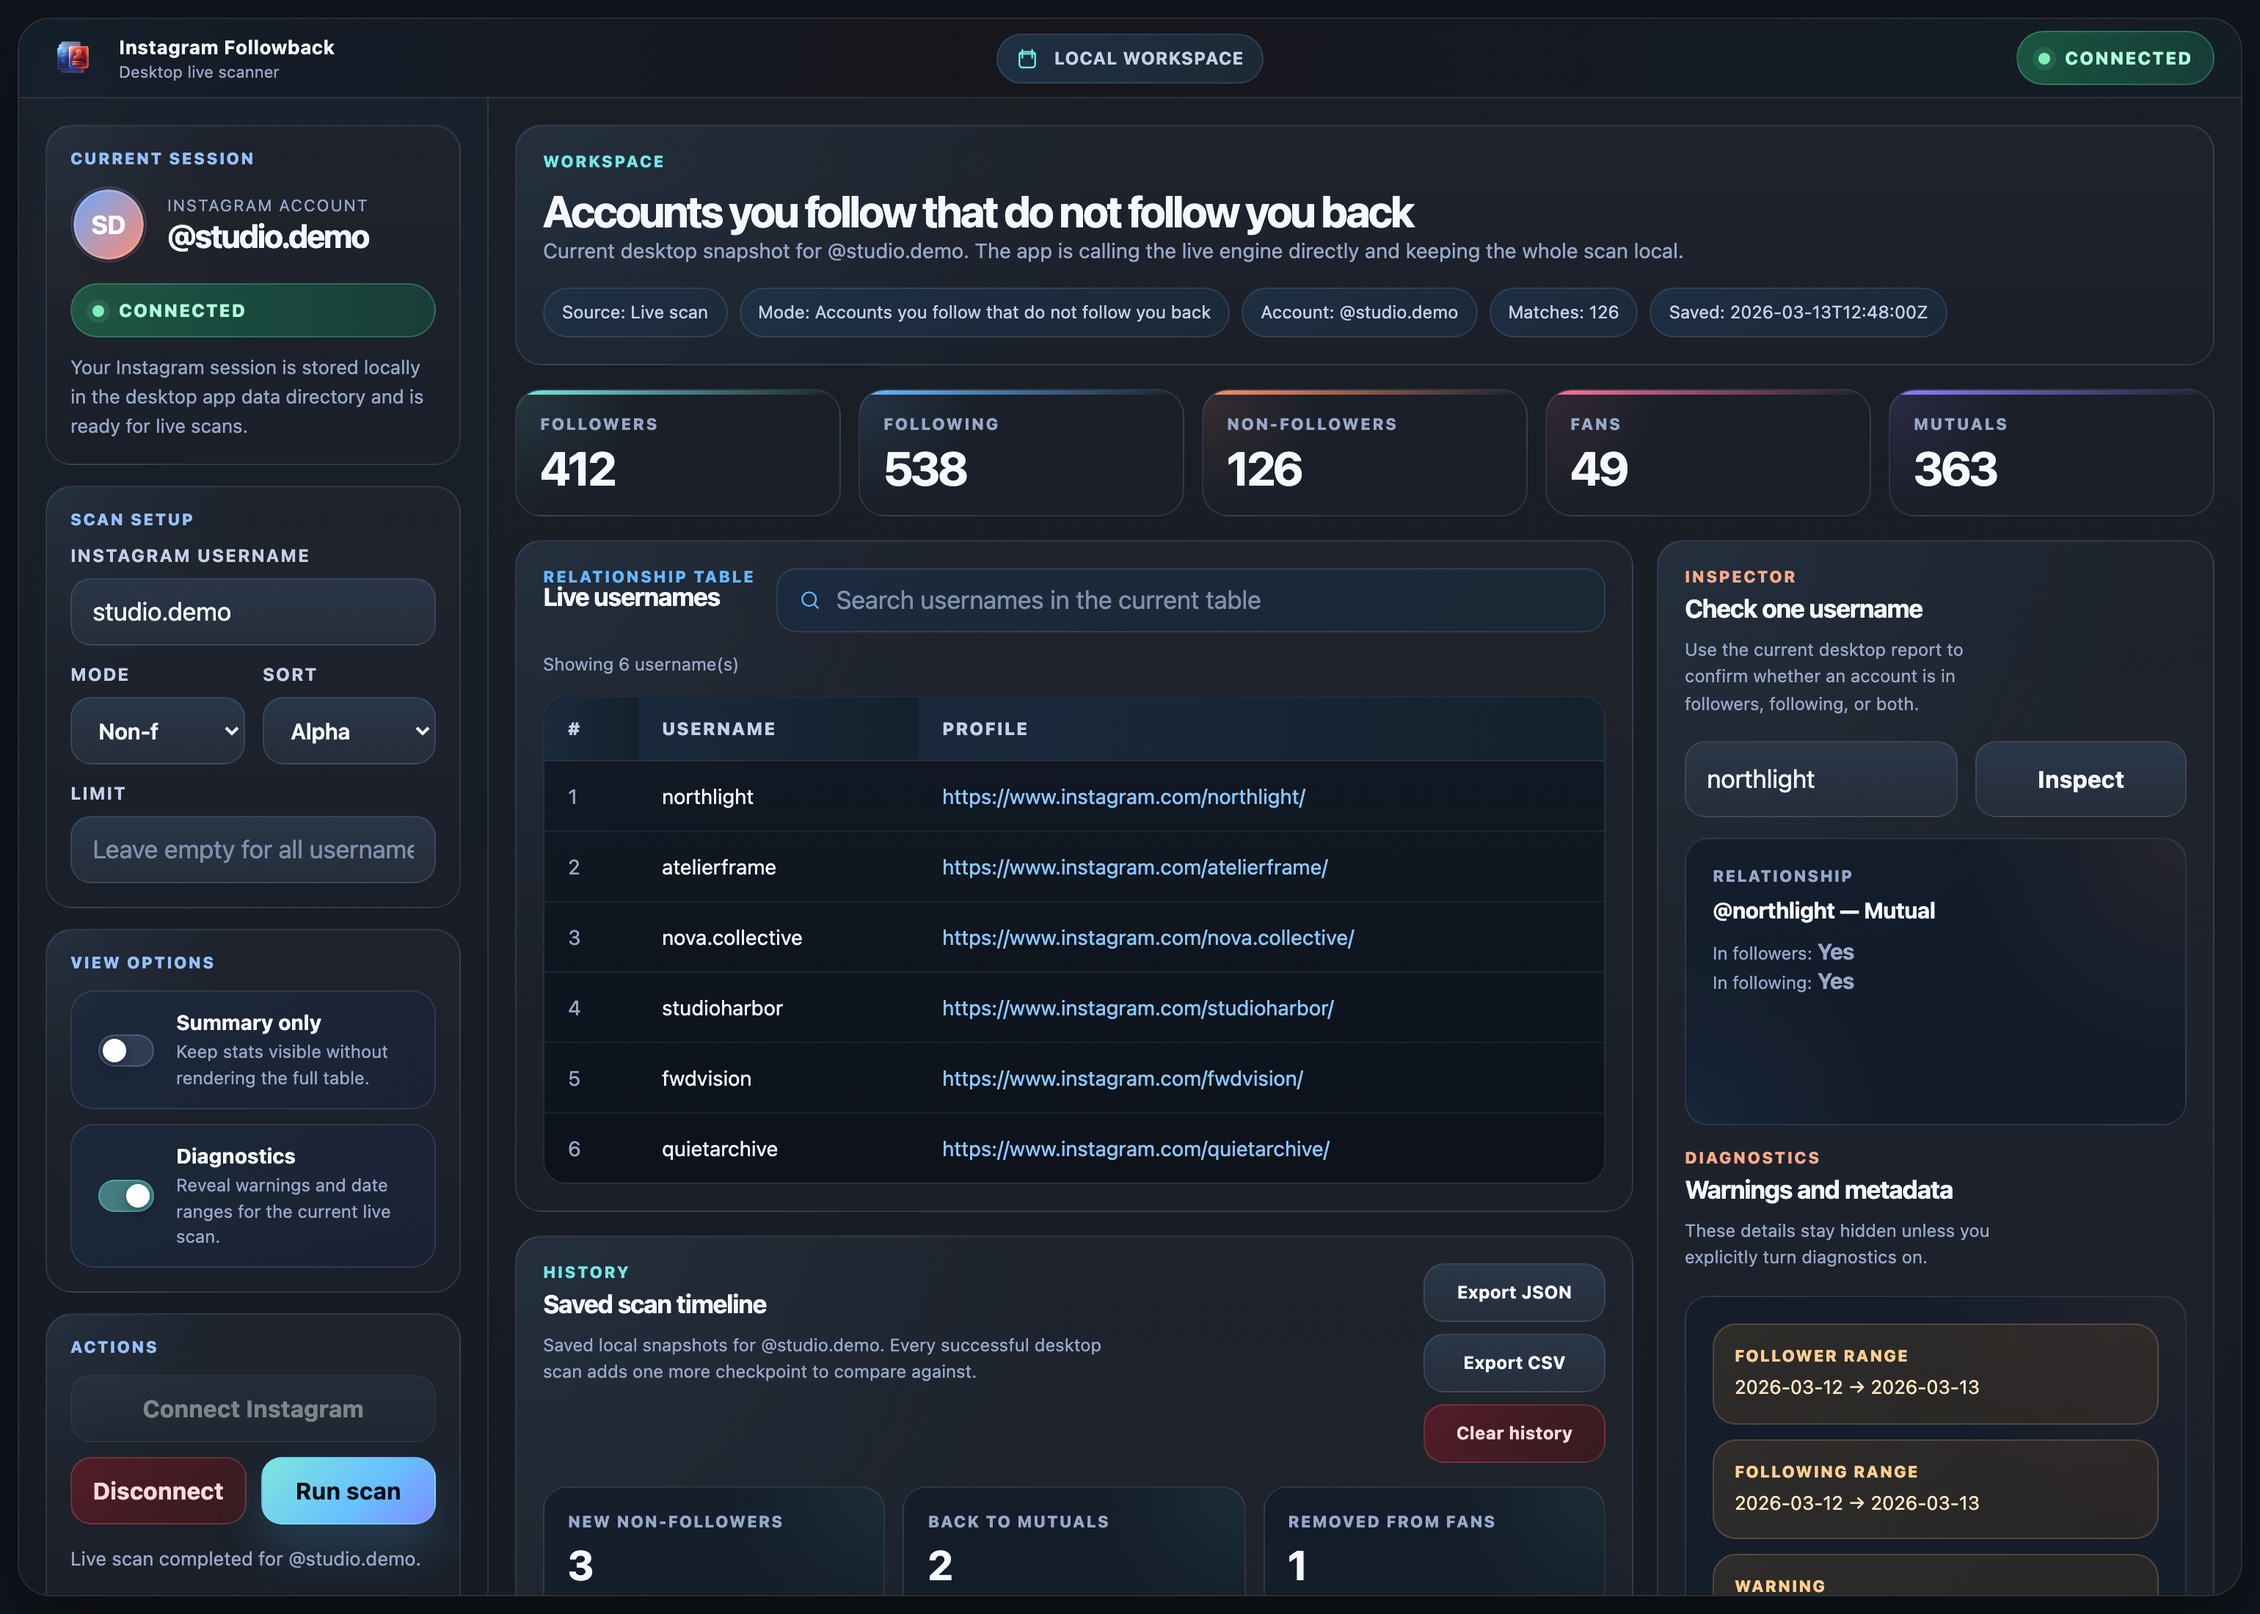
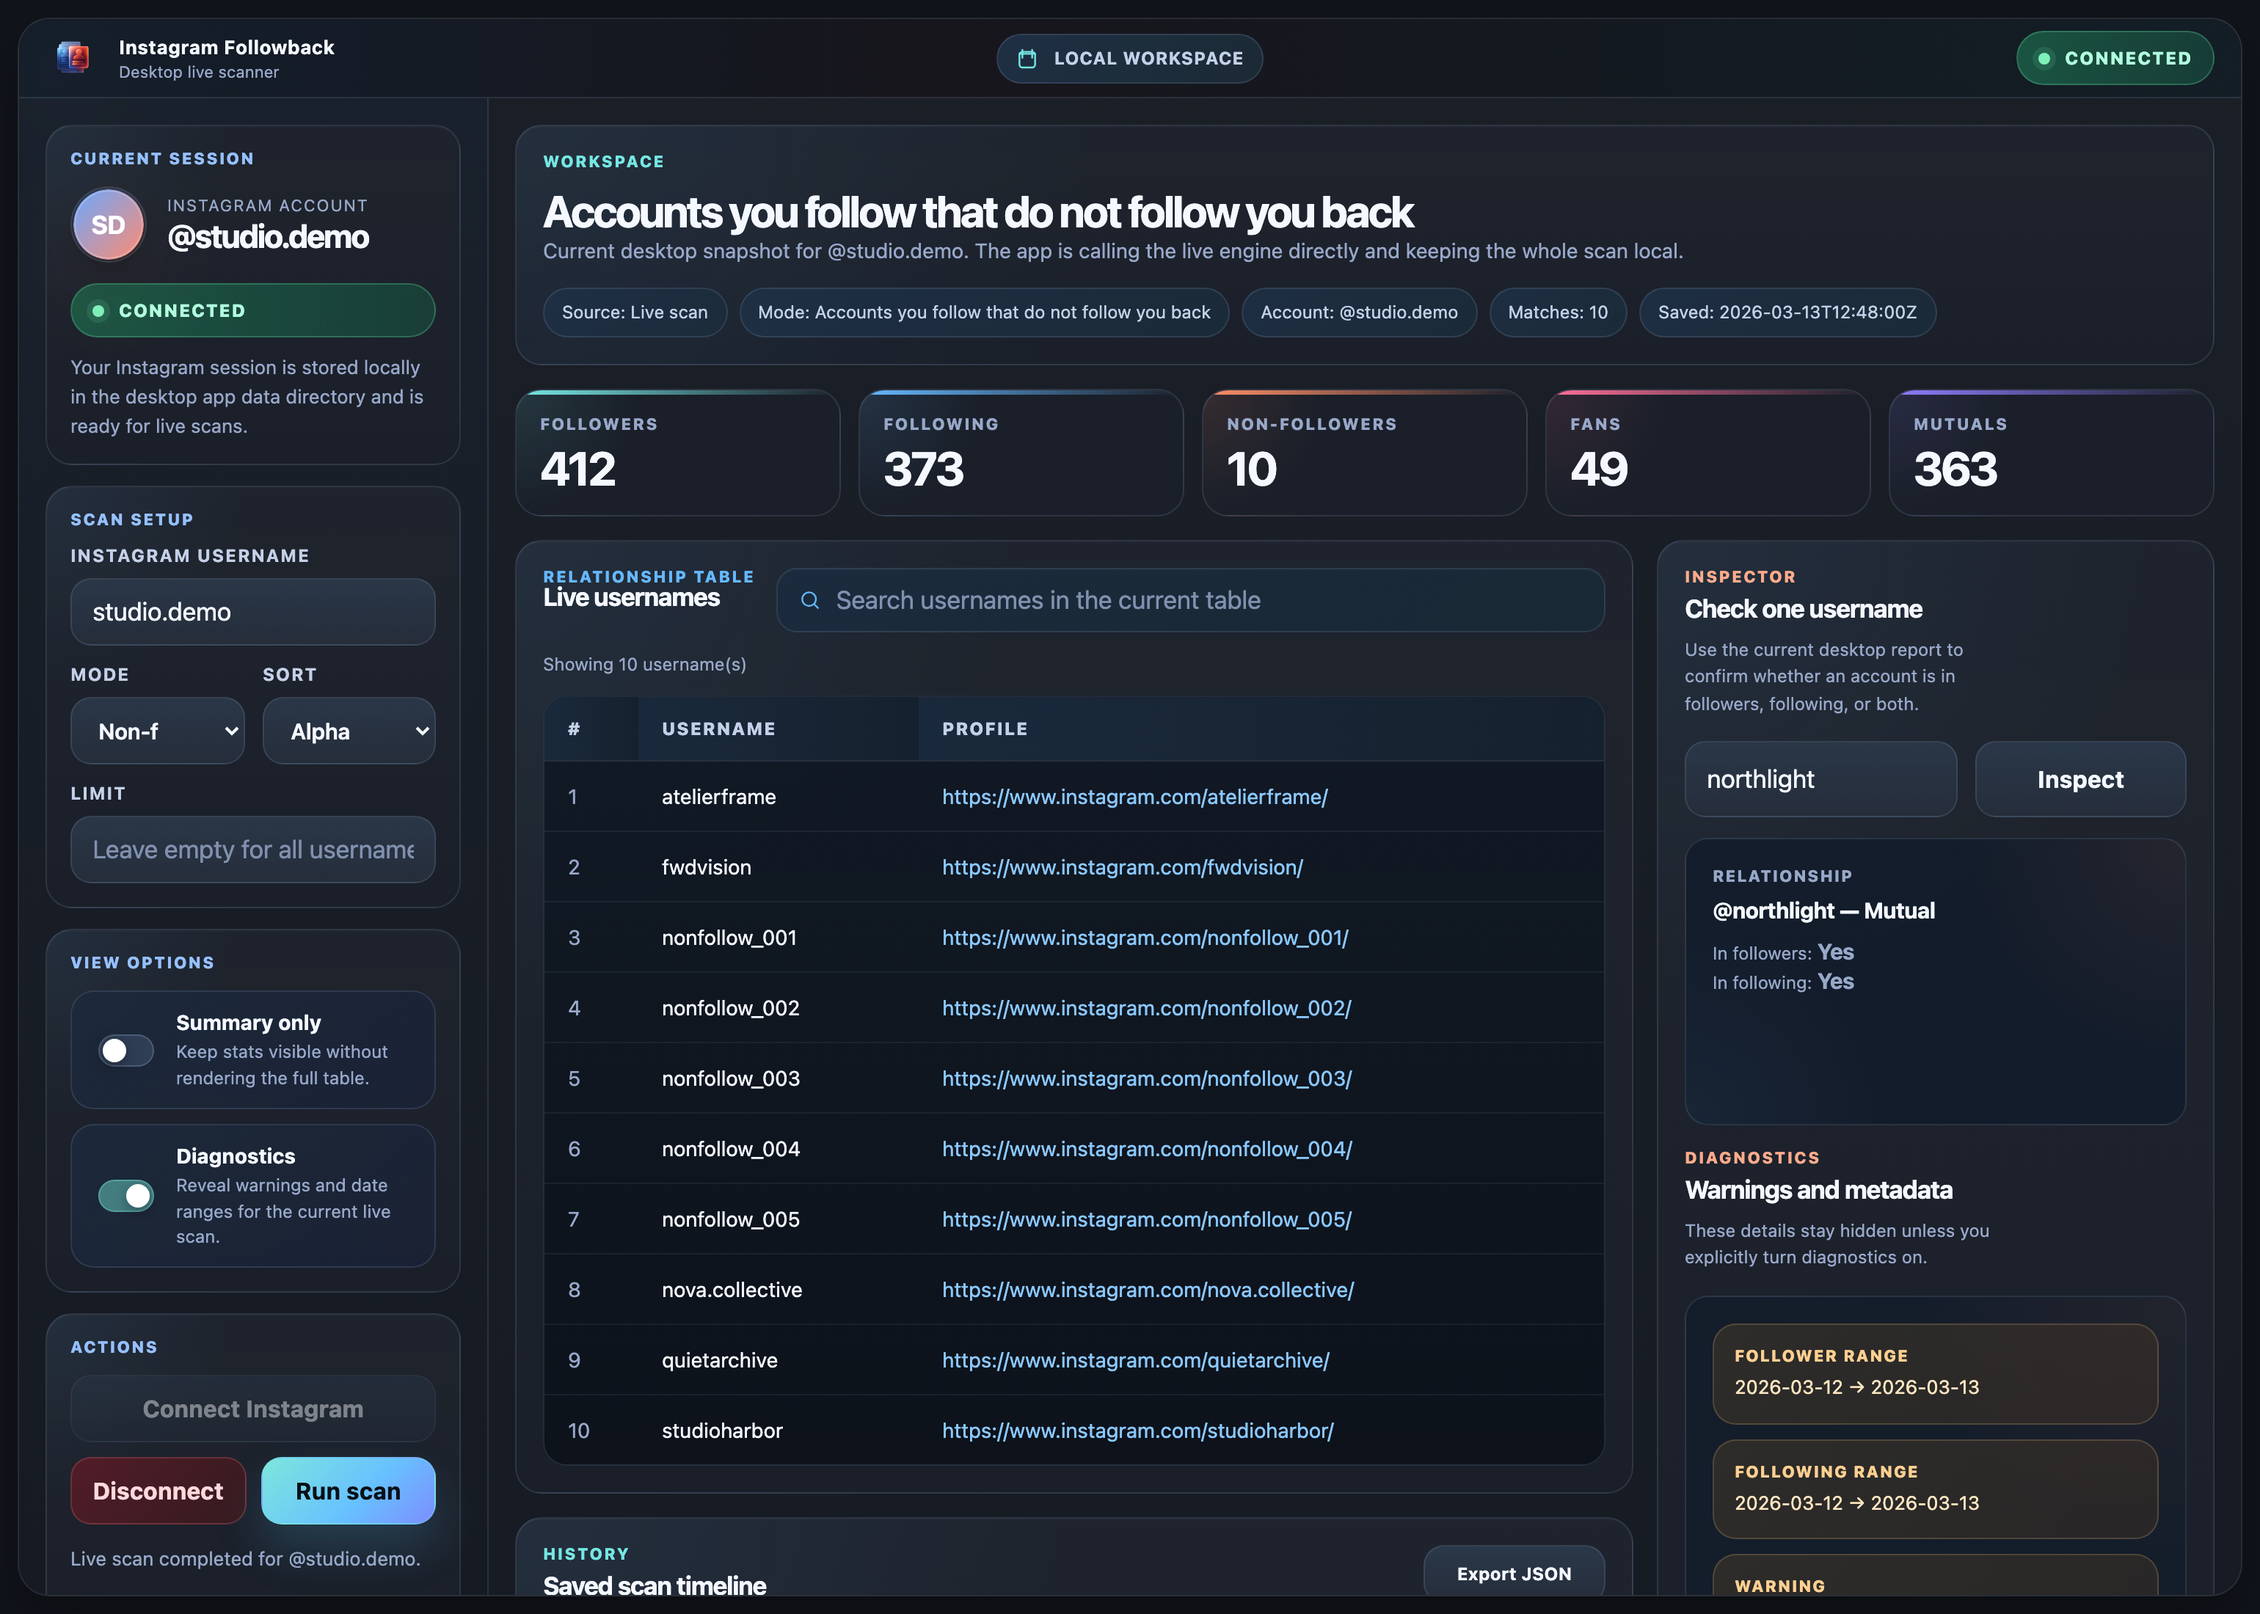
Update README screenshot set

diff --git a/scripts/capture_desktop_screenshots.py b/scripts/capture_desktop_screenshots.py
@@ -43,12 +43,16 @@ def avatar_data_url(initials: str, *, start: str, end: str) -> str:
 
 def build_report() -> dict[str, object]:
     entries = [
-        {"username": "northlight", "profile_url": "https://www.instagram.com/northlight/"},
         {"username": "atelierframe", "profile_url": "https://www.instagram.com/atelierframe/"},
-        {"username": "nova.collective", "profile_url": "https://www.instagram.com/nova.collective/"},
-        {"username": "studioharbor", "profile_url": "https://www.instagram.com/studioharbor/"},
         {"username": "fwdvision", "profile_url": "https://www.instagram.com/fwdvision/"},
+        {"username": "nonfollow_001", "profile_url": "https://www.instagram.com/nonfollow_001/"},
+        {"username": "nonfollow_002", "profile_url": "https://www.instagram.com/nonfollow_002/"},
+        {"username": "nonfollow_003", "profile_url": "https://www.instagram.com/nonfollow_003/"},
+        {"username": "nonfollow_004", "profile_url": "https://www.instagram.com/nonfollow_004/"},
+        {"username": "nonfollow_005", "profile_url": "https://www.instagram.com/nonfollow_005/"},
+        {"username": "nova.collective", "profile_url": "https://www.instagram.com/nova.collective/"},
         {"username": "quietarchive", "profile_url": "https://www.instagram.com/quietarchive/"},
+        {"username": "studioharbor", "profile_url": "https://www.instagram.com/studioharbor/"},
     ]
     return {
         "scan_username": "studio.demo",
@@ -61,8 +65,8 @@ def build_report() -> dict[str, object]:
         "stats_only": False,
         "stats": {
             "followers": 412,
-            "following": 538,
-            "nonfollowers": 126,
+            "following": 373,
+            "nonfollowers": 10,
             "fans": 49,
             "mutuals": 363,
         },
@@ -81,19 +85,15 @@ def build_report() -> dict[str, object]:
             "open.room",
             "studio.demo",
         ],
-        "following_usernames": [
-            "atelierframe",
+        "following_usernames": [entry["username"] for entry in entries] + [
             "northlight",
-            "nova.collective",
-            "quietarchive",
+            "open.room",
             "studio.demo",
-            "studioharbor",
-            "fwdvision",
         ],
         "entries": entries,
         "all_entries": entries,
         "shown_matches": len(entries),
-        "total_matches": 126,
+        "total_matches": len(entries),
         "used_files": {
             "followers": ["live-instagram://studio.demo/followers"],
             "following": ["live-instagram://studio.demo/following"],
@@ -107,9 +107,9 @@ def build_history() -> dict[str, object]:
         "latest_snapshot_id": "snap-20260313-124800",
         "previous_snapshot_id": "snap-20260312-184500",
         "changes": {
-            "new_nonfollowers": ["atelierframe", "quietarchive", "studioharbor"],
-            "returned_mutuals": ["northlight", "open.room"],
-            "disappeared_fans": ["calm.signal"],
+            "new_nonfollowers": ["nonfollow_004", "nonfollow_005"],
+            "returned_mutuals": ["mutual_357", "mutual_358", "mutual_359", "mutual_360", "mutual_361"],
+            "disappeared_fans": ["fan_048"],
         },
         "entries": [
             {
@@ -118,8 +118,8 @@ def build_history() -> dict[str, object]:
                 "created_at": "2026-03-13T12:48:00Z",
                 "stats": {
                     "followers": 412,
-                    "following": 538,
-                    "nonfollowers": 126,
+                    "following": 373,
+                    "nonfollowers": 10,
                     "fans": 49,
                     "mutuals": 363,
                 },
@@ -132,8 +132,8 @@ def build_history() -> dict[str, object]:
                 "created_at": "2026-03-12T18:45:00Z",
                 "stats": {
                     "followers": 408,
-                    "following": 531,
-                    "nonfollowers": 123,
+                    "following": 366,
+                    "nonfollowers": 8,
                     "fans": 50,
                     "mutuals": 358,
                 },
@@ -146,8 +146,8 @@ def build_history() -> dict[str, object]:
                 "created_at": "2026-03-10T09:30:00Z",
                 "stats": {
                     "followers": 401,
-                    "following": 520,
-                    "nonfollowers": 119,
+                    "following": 354,
+                    "nonfollowers": 6,
                     "fans": 53,
                     "mutuals": 348,
                 },
@@ -161,34 +161,34 @@ def build_history() -> dict[str, object]:
 def build_history_detail() -> dict[str, object]:
     return {
         "username": "studio.demo",
-        "comparison_mode": "custom",
+        "comparison_mode": "previous",
         "changes": {
-            "new_nonfollowers": ["atelierframe", "quietarchive", "studioharbor"],
-            "returned_mutuals": ["northlight", "open.room"],
-            "disappeared_fans": ["calm.signal"],
+            "new_nonfollowers": ["nonfollow_004", "nonfollow_005"],
+            "returned_mutuals": ["mutual_357", "mutual_358", "mutual_359", "mutual_360", "mutual_361"],
+            "disappeared_fans": ["fan_048"],
         },
         "available_comparisons": [
             {
                 "snapshot_id": "snap-20260312-184500",
                 "created_at": "2026-03-12T18:45:00Z",
-                "stats": {"nonfollowers": 123, "fans": 50, "mutuals": 358},
+                "stats": {"nonfollowers": 8, "fans": 50, "mutuals": 358},
             },
             {
                 "snapshot_id": "snap-20260310-093000",
                 "created_at": "2026-03-10T09:30:00Z",
-                "stats": {"nonfollowers": 119, "fans": 53, "mutuals": 348},
+                "stats": {"nonfollowers": 6, "fans": 53, "mutuals": 348},
             },
         ],
         "comparison_snapshot": {
-            "snapshot_id": "snap-20260310-093000",
+            "snapshot_id": "snap-20260312-184500",
             "username": "studio.demo",
-            "created_at": "2026-03-10T09:30:00Z",
+            "created_at": "2026-03-12T18:45:00Z",
             "stats": {
-                "followers": 401,
-                "following": 520,
-                "nonfollowers": 119,
-                "fans": 53,
-                "mutuals": 348,
+                "followers": 408,
+                "following": 366,
+                "nonfollowers": 8,
+                "fans": 50,
+                "mutuals": 358,
             },
         },
         "snapshot": {
@@ -197,8 +197,8 @@ def build_history_detail() -> dict[str, object]:
             "created_at": "2026-03-13T12:48:00Z",
             "stats": {
                 "followers": 412,
-                "following": 538,
-                "nonfollowers": 126,
+                "following": 373,
+                "nonfollowers": 10,
                 "fans": 49,
                 "mutuals": 363,
             },
@@ -212,13 +212,17 @@ def build_history_detail() -> dict[str, object]:
                 "nonfollowers": [
                     "atelierframe",
                     "fwdvision",
+                    "nonfollow_001",
+                    "nonfollow_002",
+                    "nonfollow_003",
+                    "nonfollow_004",
+                    "nonfollow_005",
                     "nova.collective",
                     "quietarchive",
                     "studioharbor",
-                    "northlight",
                 ],
-                "fans": ["calm.signal", "field.note", "open.room"],
-                "mutuals": ["northlight", "open.room", "studio.demo", "field.note"],
+                "fans": ["calm.signal", "fan_001", "fan_002", "fan_003", "fan_004", "fan_005", "fan_006", "fan_007", "fan_008", "fan_009", "fan_010", "fan_011", "fan_012", "fan_013", "fan_014", "fan_015", "fan_016", "fan_017"],
+                "mutuals": ["mutual_001", "mutual_002", "mutual_003", "mutual_004", "mutual_005", "mutual_006", "mutual_007", "mutual_008", "mutual_009", "mutual_010", "mutual_011", "mutual_012", "mutual_013", "mutual_014", "mutual_015", "mutual_016", "mutual_017", "mutual_018"],
             },
         },
     }
@@ -379,8 +383,6 @@ def populate_history_state(page) -> None:
         """
         () => {
           renderReport(window.__DOCS_MOCK__.report);
-          document.getElementById('summaryOnlyToggle').checked = true;
-          rebuildCurrentReportFromControls();
           document.getElementById('diagnosticsToggle').checked = true;
           renderWarnings(state.report);
           state.selectedHistorySnapshotId = window.__DOCS_MOCK__.history_detail.snapshot.snapshot_id;
@@ -522,6 +524,24 @@ def capture_inspector_showcase(page) -> None:
     page.screenshot(path=str(OUTPUT_DIR / "inspector-diagnostics.png"))
 
 
+def capture_history_detail_showcase(page) -> None:
+    populate_history_state(page)
+    page.evaluate(
+        """
+        () => {
+          const workspace = document.getElementById('workspacePanel');
+          const detail = document.getElementById('historyDetail');
+          if (workspace && detail) {
+            const top = detail.offsetTop - 22;
+            workspace.scrollTop = Math.max(0, top);
+          }
+        }
+        """
+    )
+    time.sleep(0.2)
+    page.screenshot(path=str(OUTPUT_DIR / "history-detail.png"))
+
+
 def main() -> None:
     OUTPUT_DIR.mkdir(parents=True, exist_ok=True)
     if DEFAULT_BROWSERS_PATH.exists():
@@ -562,7 +582,7 @@ def main() -> None:
             page.add_init_script(build_mock_script())
             page.goto(url, wait_until="networkidle")
             time.sleep(0.25)
-            capture_inspector_showcase(page)
+            capture_history_detail_showcase(page)
             context.close()
         finally:
             browser.close()

diff --git a/README.md b/README.md
@@ -65,19 +65,19 @@ The result is a tool that feels less like a hack and more like a serious local p
 <p align="center">
   <img src="./docs/screenshots/hero-workspace.png" alt="Wide desktop hero showing the connected Instagram workspace, summary metrics, relationship table, and local-first product shell" width="960" />
   <br />
-  <strong>One local workspace for connection, scanning, saved history, and review</strong>
+  <strong>One local workspace for connection, scanning, diagnostics, and review</strong>
 </p>
 
 <p align="center">
   <img src="./docs/screenshots/history-timeline.png" alt="Saved scan timeline showing snapshot cards, local deltas, and expanded history detail comparison" width="960" />
   <br />
-  <strong>Saved scan timeline with snapshot drill-down and comparison</strong>
+  <strong>Saved scan timeline with local deltas and snapshot comparison</strong>
 </p>
 
 <p align="center">
-  <img src="./docs/screenshots/inspector-diagnostics.png" alt="Inspector and diagnostics panel showing one-account relationship checks and warning metadata" width="960" />
+  <img src="./docs/screenshots/history-detail.png" alt="Expanded snapshot detail view showing comparison changes and saved snapshot lists for the selected timeline entry" width="960" />
   <br />
-  <strong>Inspector and diagnostics for targeted checks</strong>
+  <strong>Expanded snapshot details with per-scan lists and change tracking</strong>
 </p>
 
 ## Desktop Quick Start
